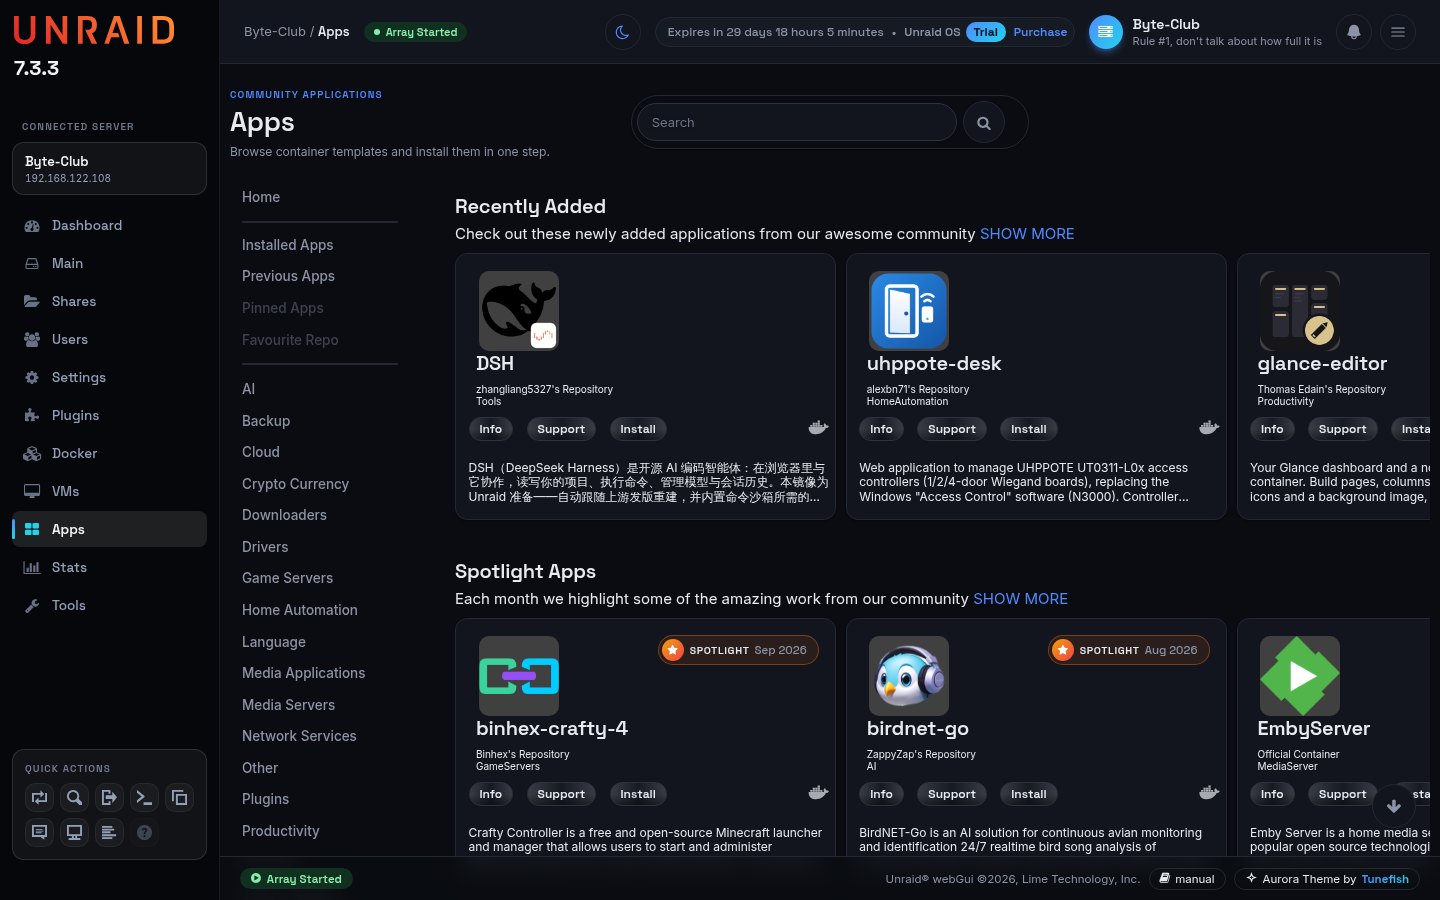
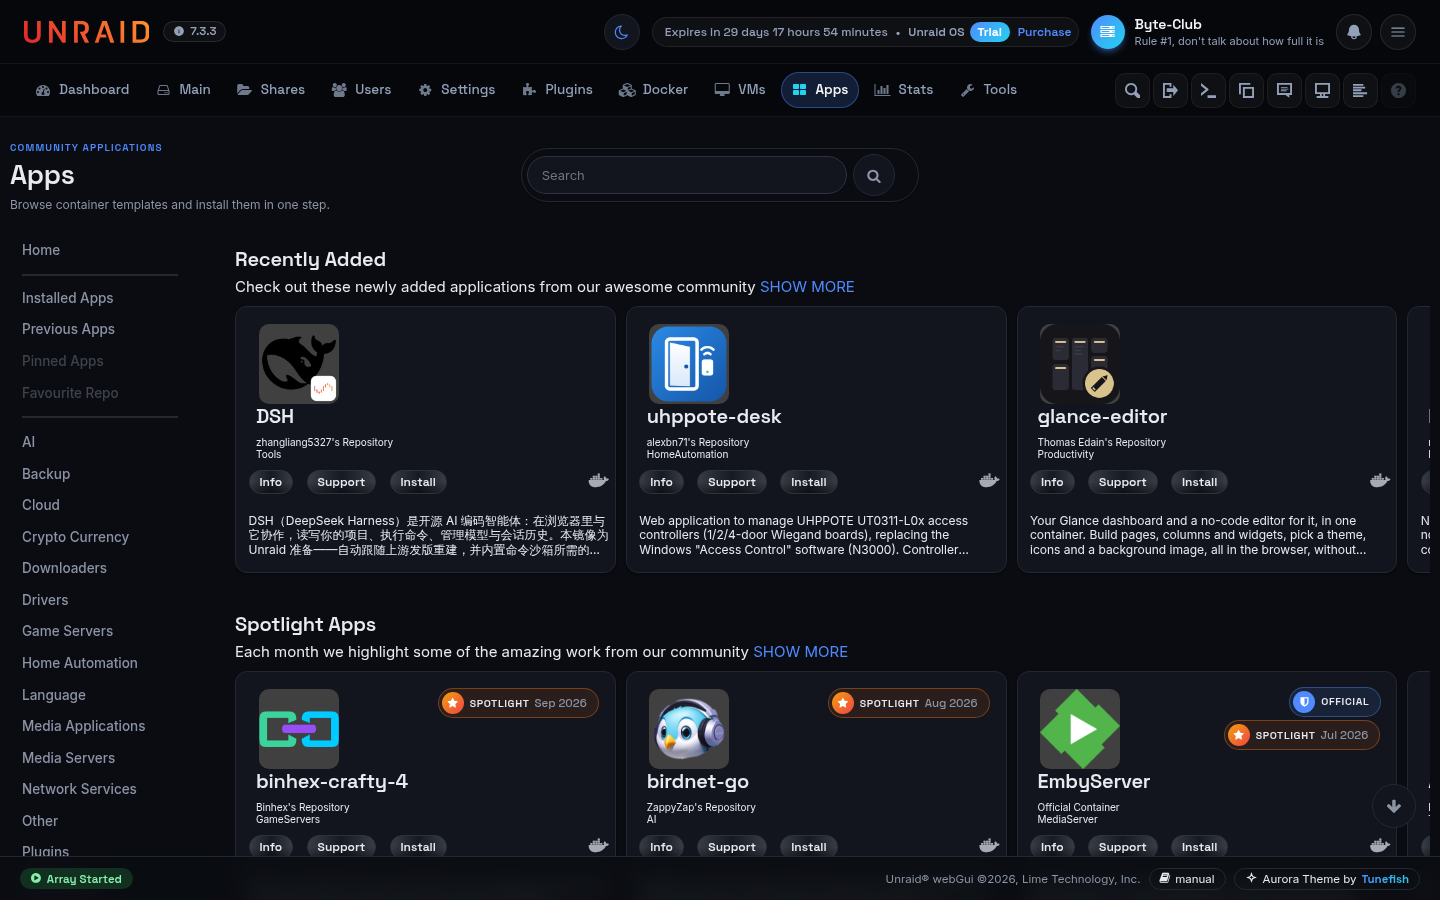
Top bar fits at 1440px; README screenshots with the top bar, sidebar and tools

diff --git a/unraid-tapeory.css b/unraid-tapeory.css
@@ -4794,7 +4794,7 @@
             z-index: 100;
             display: flex;
             align-items: center;
-            gap: 1.6rem;
+            gap: 1.2rem;
             box-sizing: border-box;
             padding: 0.8rem 2.4rem;
             border-bottom: 1px solid rgba(255, 255, 255, 0.06);
@@ -4834,7 +4834,7 @@
             align-items: center;
             gap: 0.8rem;
             height: 3.6rem;
-            padding: 0 1.4rem;
+            padding: 0 1.1rem;
             border-radius: 999px;
             color: var(--tp-header-muted);
             font: 500 1.35rem/1 var(--tp-font-heading);
@@ -4888,7 +4888,7 @@
         /* Quick actions: round icon buttons. */
         .nav-tile.right {
             flex: none;
-            gap: 0.4rem;
+            gap: 0.3rem;
         }
 
         .nav-tile.right :is(.nav-item, .nav-user) {
@@ -4902,8 +4902,8 @@
         .nav-tile.right :is(.nav-item, .nav-user) a {
             display: grid;
             place-items: center;
-            width: 3.4rem;
-            height: 3.4rem;
+            width: 3.3rem;
+            height: 3.3rem;
             padding: 0;
             border: 1px solid rgba(255, 255, 255, 0.06);
             border-radius: 10px;

diff --git a/README.md b/README.md
@@ -2,19 +2,23 @@
 
 A modern theme plugin for the Unraid webGUI: new colours and fonts, an optional sidebar layout, a card-based Dashboard, a redesigned Main page, a compact Docker list with groups, and a built-in Stats page. Dark and light, with a one-click switch, and it works on phones.
 
-![Dashboard with the Aurora Theme, dark palette and sidebar layout](docs/screenshots/dashboard-dark.png)
+![Dashboard with the Aurora Theme, dark palette and top bar](docs/screenshots/dashboard-dark.png)
 
-| Light palette | Settings with favourites and search |
+| Light palette | Sidebar layout |
 | --- | --- |
-| ![Dashboard with the light palette](docs/screenshots/dashboard-light.png) | ![Settings page with a favourites section and a search field](docs/screenshots/settings-favourites.png) |
+| ![Dashboard with the light palette](docs/screenshots/dashboard-light.png) | ![Dashboard with the menu in a sidebar](docs/screenshots/sidebar.png) |
 
-| Array Operation | Login page |
+| Settings with favourites and search | Array Operation |
 | --- | --- |
-| ![Array Operation as cards: array status, parity check, last check, disks, mover and power](docs/screenshots/array-operation.png) | ![Login page with a glass card on an aurora background](docs/screenshots/login.png) |
+| ![Settings page with a favourites section and a search field](docs/screenshots/settings-favourites.png) | ![Array Operation as cards: array status, parity check, last check, disks, mover and power](docs/screenshots/array-operation.png) |
 
 | Docker | Apps |
 | --- | --- |
 | ![Docker list with totals, filters, search and a WebUI button per container](docs/screenshots/docker.png) | ![Apps tab with a nav menu, a centred search and app cards with spotlight badges](docs/screenshots/apps.png) |
+
+| Tools | Login page |
+| --- | --- |
+| ![Diagnostics tool page with the collected files as cards](docs/screenshots/tools.png) | ![Login page with a glass card on an aurora background](docs/screenshots/login.png) |
 
 ## Install
 
@@ -37,7 +41,7 @@ Settings are under **Settings → User Utilities → Aurora Theme**.
 ## What it changes
 
 - **Look**: Inter and Space Grotesk fonts (bundled, no external requests), a blue–cyan accent, rounded cards, pill buttons, themed drop-down lists, switches, tab bars, dialogs, tooltips and notifications. Every table, including those of plugins, gets the same card style.
-- **Layout**: an optional sidebar with the main menu, server card and quick actions; a slim top bar with breadcrumb, array status and a dark / light switch; page headings on every tab.
+- **Layout**: a top bar with the server controls in one row and pill tabs with icons, the quick actions as round buttons; or an optional sidebar with the main menu, server card and quick actions (phones and tablets keep the top bar). A dark / light switch and page headings on every tab.
 - **Login page**: a glass card on an aurora background, in the dark or light palette.
 - **Dashboard**: tiles as cards, a summary strip (uptime, CPU, memory, array), restyled load charts, the processor's cores as a compact grid with power and temperature chips, usage rings, fans and disk bays as small cards. Clicking a container opens a dialog with all its actions. The processor tile keeps showing load, power and temperature when the Unraid API service is not running.
 - **Main**: device tables with status dots, temperature and error chips and slim usage bars; Array Operation as cards (array, parity check with live progress, last check, disks, mover, power).
